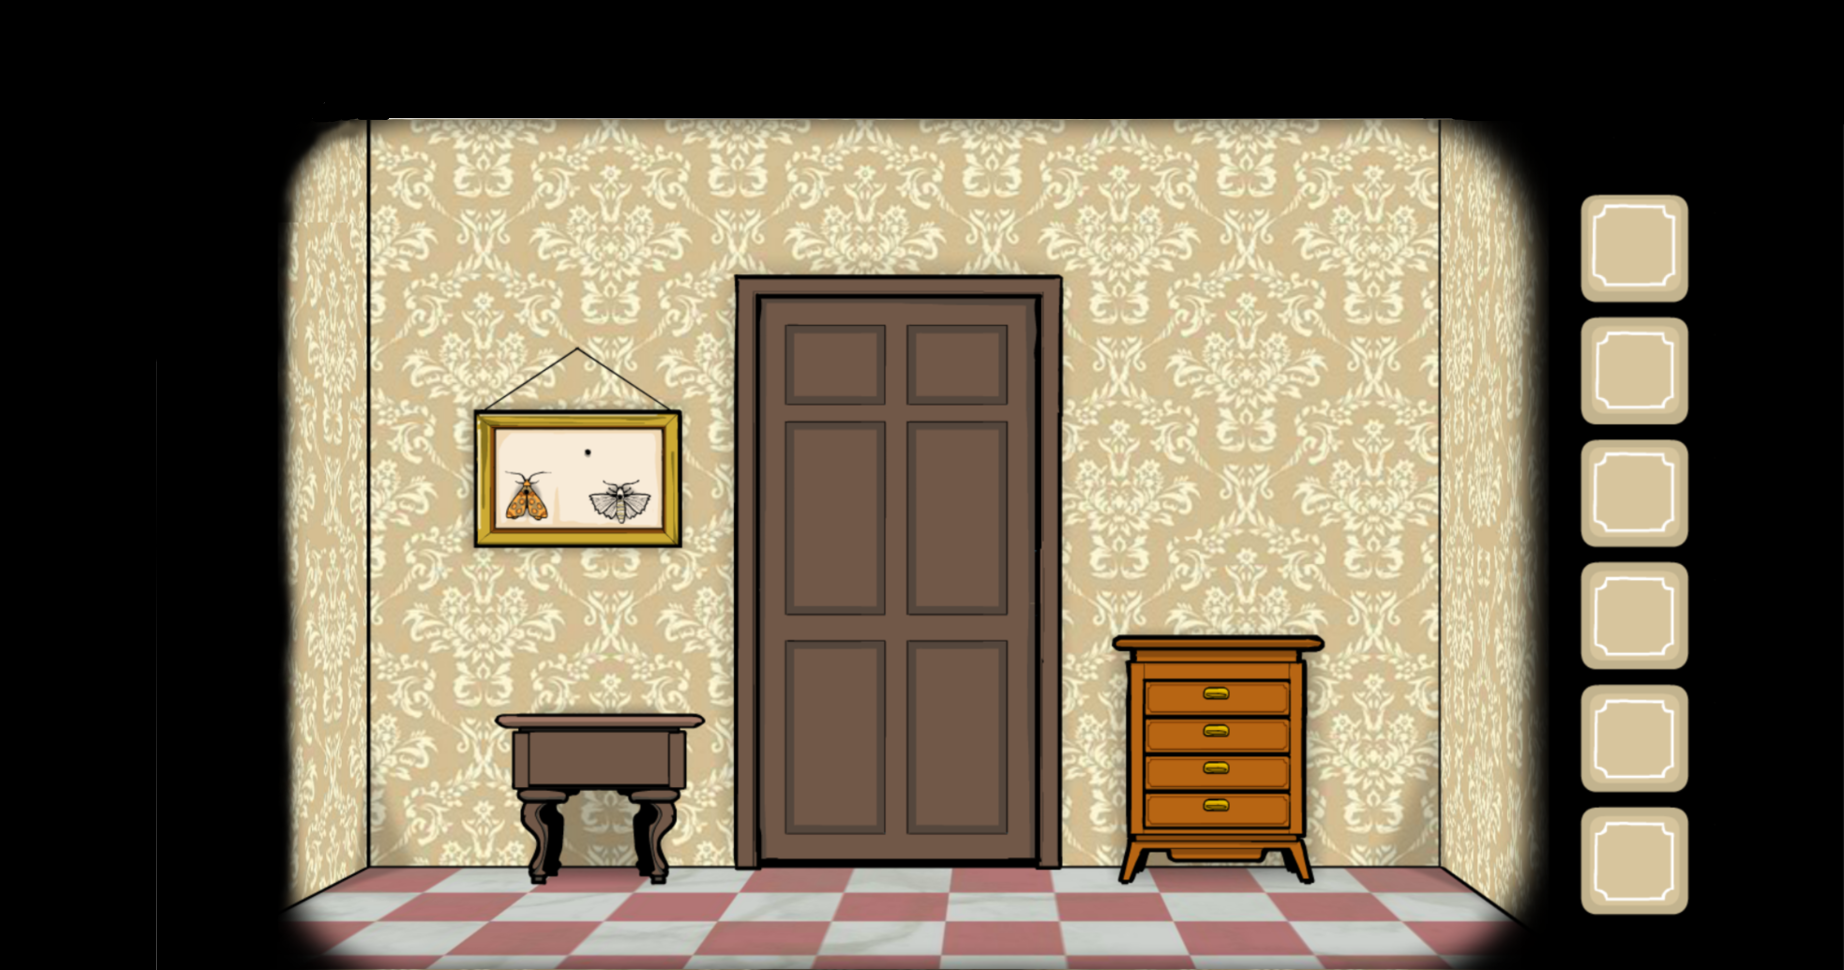
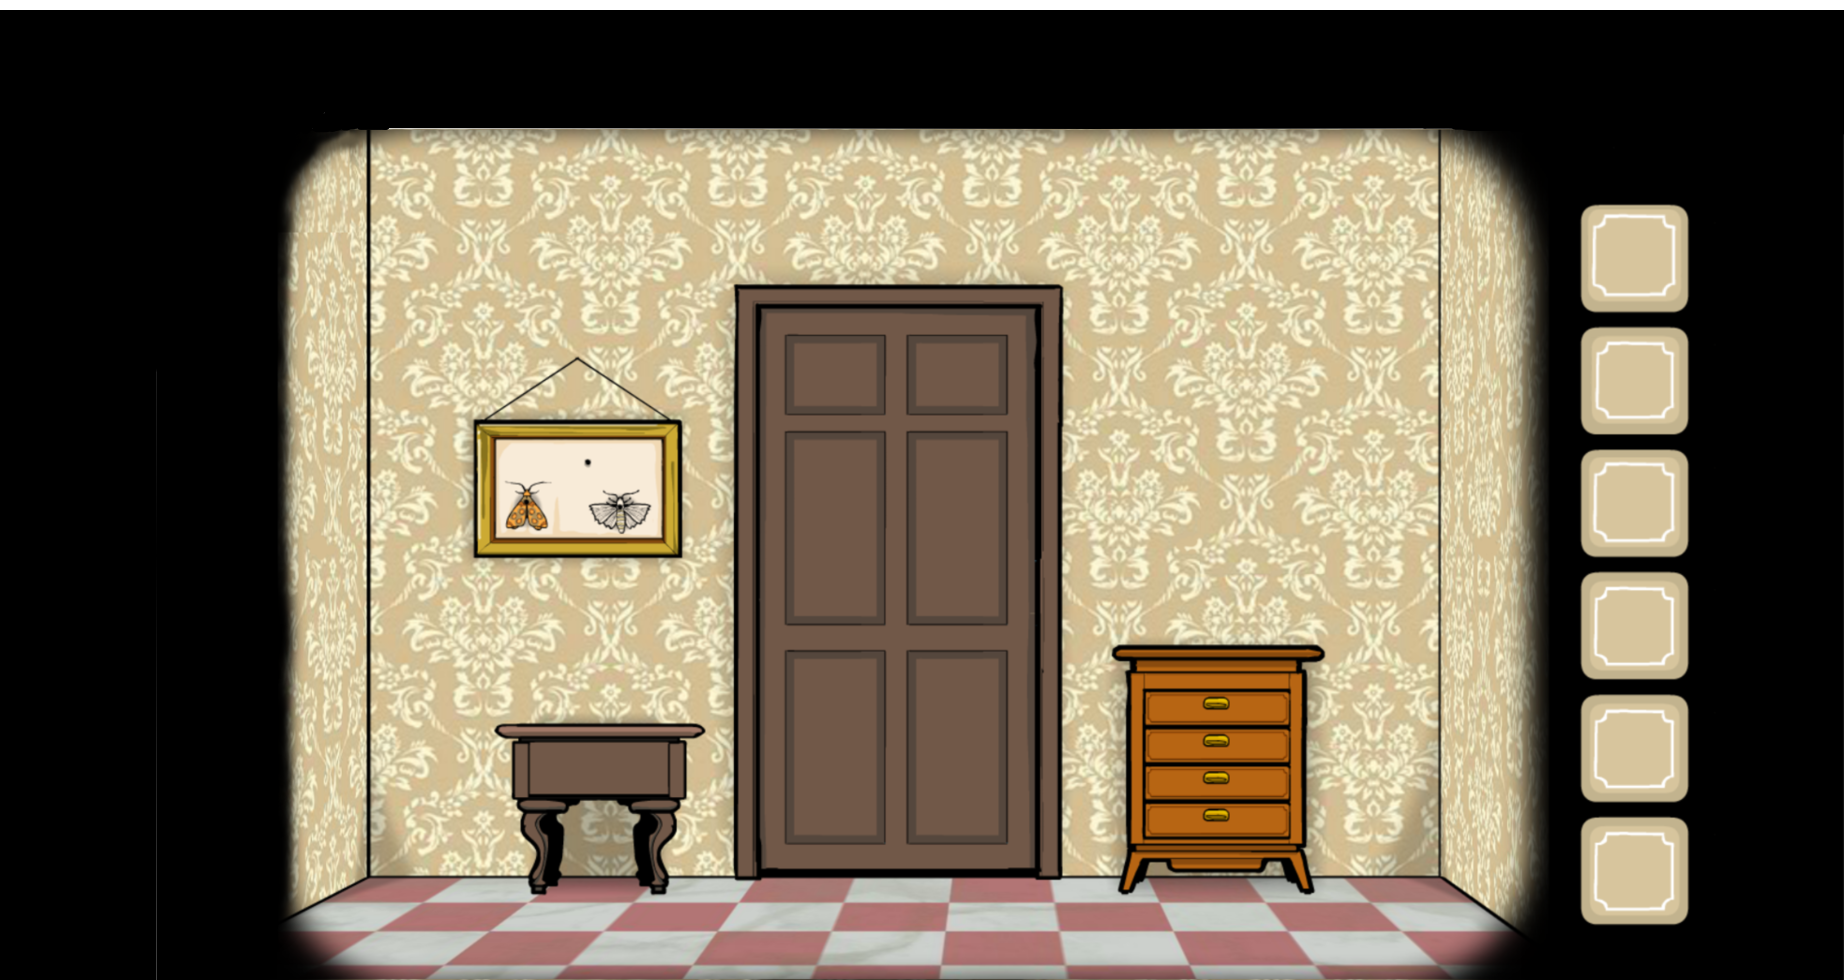
добавила еще одну часть комнаты, панель с бабочками

diff --git a/init_project.py b/init_project.py
@@ -24,20 +24,32 @@ button_right1 = AnimatedButton(['button_left.png'],
                                1600, 550, print, 'button_sound.ogg', True, 1)
 button_right2 = AnimatedButton(['button_right.png'],
                                300, 550, print, 'button_sound.ogg', True, 0)
+button_left_level_2 = AnimatedButton(['button_left.png'],
+                                     1480, 550, print, 'button_sound.ogg', True, 13)
+button_right_level_3 = AnimatedButton(['button_right.png'],
+                                      300, 550, print, 'button_sound.ogg', True, 8)
 button_dowm = AnimatedButton(['button_down.png'],
                              900, 900, print, 'button_sound.ogg', True, 0)
+safe_second_tab = AnimatedButton(['safe_second_tab.png'],
+                                 810, 510, print, None, True, 14)
 button_dowm2 = AnimatedButton(['button_down.png'],
                               920, 900, print, 'button_sound.ogg', True, 4)
 button_dowm3 = AnimatedButton(['button_down.png'],
                               920, 900, print, 'button_sound.ogg', True, 7)
 button_dowm4 = AnimatedButton(['button_down.png'],
                               870, 900, print, 'button_sound.ogg', True, 7)
+button_dowm5 = AnimatedButton(['button_down.png'],
+                              870, 890, print, 'button_sound.ogg', True, 13)
+button_dowm6 = AnimatedButton(['button_down.png'],
+                              870, 890, print, 'button_sound.ogg', True, 8)
 button_go_to_lift = AnimatedButton(['go_to_lift.png'],
                                    850, 550, print, 'button_sound.ogg', True, 2)
 buttons_in_lift = AnimatedButton(['buttons_in_lift.png'],
                                  1480, 480, print, 'button_sound.ogg', True, 3)
 buttons_hall = AnimatedButton(['экран.png'],
                               0, 0, print, 'button_sound.ogg', True, 4)
+butter_fly = AnimatedButton(['бабочки.png'],
+                            480, 420, print, 'button_sound.ogg', True, 15)
 first_panel = AnimatedButton(['экран.png'],
                              0, 0, print, 'button_sound.ogg', True, 0)
 door3 = AnimatedButton(['door_number3.png'],
@@ -88,7 +100,8 @@ pig_dialog = DialogSprite(['pig_dialog.png'], 500, 100, print, pig, 13)
 
 main_game = BaseLevelClass(
     ['start_level_1.png', 'level_2.png', 'lift_hall.png', 'lift_rooms.png', 'rooms.png', 'door.png', 'door.png',
-     'км1.png', 'км2_2.png', 'page1.png', 'сейф_окно.png', 'подсказка_2_page.png', 'inf2.png'],
+     'км1.png', 'км2_2.png', 'page1.png', 'сейф_окно.png', 'подсказка_2_page.png', 'inf2.png', 'км3.png',
+     'safe_second.png', 'км2_,бабочки.png'],
     ['piano_fon.mp3'],
     [[rabbit, 0], [deer, 0], [pig, 1], [button_right1, 0], [button_right2, 1],
      [pigion, 0], [turkey, 1], [bird, 1], [rabbit_dialog, -1], [deer_dialog, -1],
@@ -99,7 +112,8 @@ main_game = BaseLevelClass(
      [safe, 7], [button_dowm4, 10], [help_page, 7], [button_dowm4, 11], [door_exit_level, 8],
      [dialog_door_level, -1], [safe_window, 10], [button1, 10], [button2, 10], [button3, 10], [button4, 10],
      [button5, 10], [button6, 10], [button7, 10], [button8, 10], [button9, 10], [button0, 10], [spider, 8],
-     [first_panel, 12]],
+     [first_panel, 12], [button_left_level_2, 8], [button_right_level_3, 13], [safe_second_tab, 13],
+     [button_dowm5, 14], [butter_fly, 8], [button_dowm6, 15]],
     screen)
 main_game.num_of_screen = 12
 
@@ -127,12 +141,19 @@ def init():
     button_right_level.function = main_game.next_screen
     button_left_level.function = main_game.next_screen
     safe.function = main_game.next_screen
+    button_left_level_2.function = main_game.next_screen
+    button_right_level_3.function = main_game.next_screen
     button_dowm.function = main_game.next_screen
     button_dowm2.function = main_game.next_screen
     button_dowm3.function = main_game.next_screen
     button_dowm4.function = main_game.next_screen
+    button_dowm5.function = main_game.next_screen
+    button_dowm6.function = main_game.next_screen
     page_room_tab.function = main_game.next_screen
     help_page.function = main_game.next_screen
+    butter_fly.function = main_game.next_screen
+    safe_second_tab.function = main_game.next_screen
+    button_dowm.function = main_game.next_screen
     door3.function = main_game.next_screen
     door2.function = main_game.next_screen
     door1.function = main_game.next_screen
